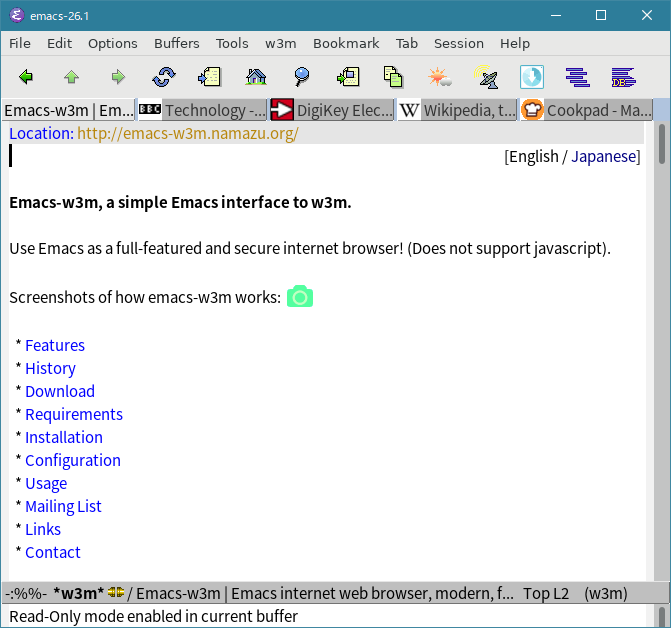
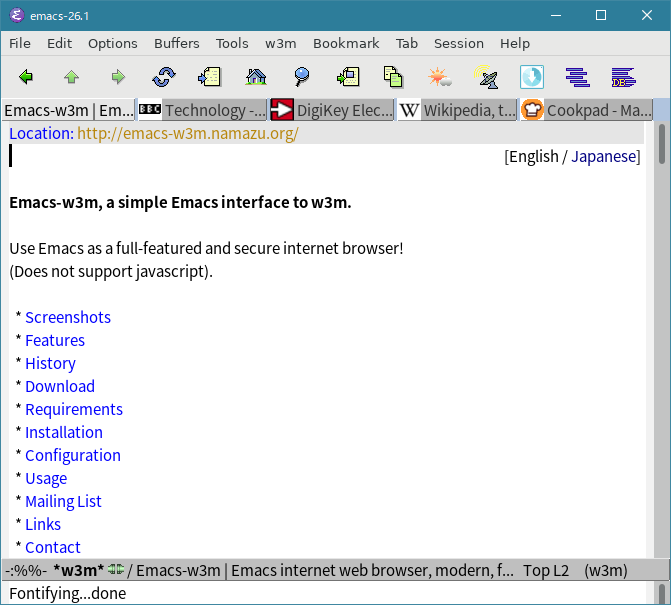
Some minor corrections by Boruch Baum

diff --git a/index-en.html b/index-en.html
@@ -13,17 +13,12 @@
 
 <h1>Emacs-w3m, a simple Emacs interface to w3m.</h1>
 
-Use Emacs as a full-featured and secure internet browser! (Does not
-support javascript).
-
-<p>Screenshots of how emacs-w3m works:
-  <a href="image/screenshot-en.html">
-    <img src="image/ss-icon.gif" alt="*" style="vertical-align:bottom">
-  </a>
-</p>
+Use Emacs as a full-featured and secure internet browser!<br>
+(Does not support javascript).
 
 <p>
 <ul>
+ <li><a href="image/screenshot-en.html">Screenshots</a>
  <li><a href="#features">Features</a>
  <li><a href="#history">History</a>
  <li><a href="#download">Download</a>
@@ -67,9 +62,9 @@ based upon <b>Akinori Ito</b>'s
 <a href="http://w3m.sourceforge.net/index.en.html">w3m</a> text-mode
 pager which had WWW capability.
 <p>
-As of 2018, the project has been actively developed and supported
+As of 2018, the project has been actively developed and supported for
 nearly two decades, but since 2005 it has been releasing updates in
-"rolling" manner, directly from it CVS repository (although
+a "rolling" manner, directly from its CVS repository (although
 un-official third-party mirrors exist on <a href=https://melpa.org/#/w3m>MELPA</a>
 and <a href=https://github.com/ecbrown/emacs-w3m>github</a>).
 <p>
@@ -315,6 +310,8 @@ in the body to <code>emacs-w3m-ctl&#64;namazu.org</code>.
 <hr>
 <h2><a name="link">Related Links</a></h2>
 <ul>
+ <li><a href="https://www.emacswiki.org/emacs/emacs-w3m">emacs-w3m</a>
+   (EmacsWiki)
  <li><a href="http://w3m.sourceforge.net/index.en.html">w3m</a>
  <li><a href="https://github.com/wanderlust/apel">APEL</a>
  <li><a href="https://github.com/wanderlust/flim">FLIM</a>

diff --git a/index-ja.html b/index-ja.html
@@ -13,17 +13,12 @@
 
 <h1>Emacs-w3m$B!"%7%s%W%k$J(B w3m $B$X$N(B Emacs $B%$%s%?!<%U%'!<%9(B</h1>
 
-Emacs $B$r;H$&40A4AuHw$G0BA4$J%$%s%?!<%M%C%H%V%i%&%6$G$9(B (Javascript
-$B$K$OBP1~$7$^$;$s(B)$B!#(B
-
-<p>Emacs-w3m $B$NF0:nNc(B:
-  <a href="image/screenshot-ja.html">
-    <img src="image/ss-icon.gif" alt="*" style="vertical-align:bottom">
-  </a>
-</p>
+Emacs $B$r;H$&40A4AuHw$G0BA4$J%$%s%?!<%M%C%H%V%i%&%6$G$9(B<br>
+(Javascript $B$K$OBP1~$7$^$;$s(B)$B!#(B
 
 <p>
 <ul>
+ <li><a href="image/screenshot-ja.html">$B%9%/%j!<%s%7%g%C%H(B</a>
  <li><a href="#features">$B5!G=(B</a>
  <li><a href="#history">$BNr;K(B</a>
  <li><a href="#download">$B%@%&%s%m!<%I(B</a>
@@ -326,6 +321,8 @@ subscribe Your Name
 <hr>
 <h2><a name="link">$B%j%s%/=8(B</a></h2>
 <ul>
+ <li><a href="https://www.emacswiki.org/emacs/emacs-w3m">emacs-w3m</a>
+   (EmacsWiki)
  <li><a href="http://w3m.sourceforge.net/index.en.html">w3m</a>
  <li><a href="https://github.com/wanderlust/apel">APEL</a>
  <li><a href="https://github.com/wanderlust/flim">FLIM</a>

diff --git a/image/screenshot-en.html b/image/screenshot-en.html
@@ -1,5 +1,7 @@
 <html>
   <body bgcolor="#EEEEEE">
-    <a href="../index-en.html"><img src="screenshot-en.png"></a>
+    <a href="../index-en.html">
+      <img src="screenshot-en.png" alt="image">
+    </a>
   </body>
 </html>

diff --git a/image/screenshot-ja.html b/image/screenshot-ja.html
@@ -1,5 +1,7 @@
 <html>
   <body bgcolor="#EEEEEE">
-    <a href="../index-ja.html"><img src="screenshot-ja.png"></a>
+    <a href="../index-ja.html">
+      <img src="screenshot-ja.png" alt="image">
+    </a>
   </body>
 </html>
